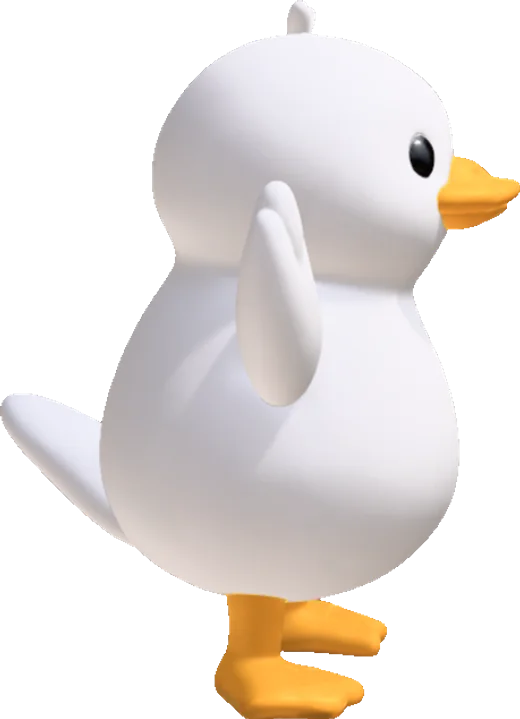
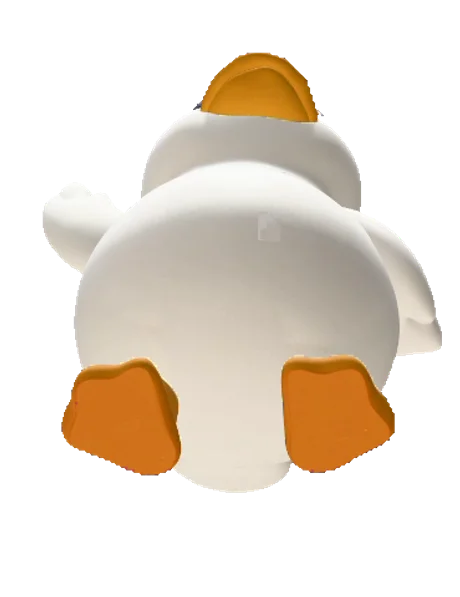
feat: 오리 스크롤 회전을 상하 궤도 25프레임으로 교체
원하는 동작은 좌우 회전이 아니라 스크롤에 따라 하이앵글에서
로우앵글로 넘어가는 것이었다. 프레임도 여섯 장뿐이라 도는 게 아니라
튀었다.

뷰어 화면 녹화(31초)에서 상하로만 움직이는 17~25초 구간을 골라
초당 세 장씩 25컷을 뽑았다. 손으로 잡은 정지 컷과 달리 카메라 거리와
좌우 각도가 그대로라 크기가 튀지 않는다.

잘라내기 상자는 25컷 전체의 합집합 하나를 쓴다. 컷마다 따로 자르면
오리가 프레임마다 튀어서 회전이 아니라 흔들림이 된다.

색보정은 HSV 로 한다. 처음에 채널 배율로 당겼더니 밝은 픽셀이 255 에
부딪혀 잘리면서 부리가 노랗게 떴다. 색상만 +25도 돌리고 채도만 1.41배,
명도는 1.10배만 건드린다. 목표값은 로고 픽셀 하나가 아니라 앞서 로고에
맞춰둔 정지 컷의 분포다. 픽셀 하나에 맞추면 그건 부리에서 가장 밝은
지점이라 거기 맞추려다 부리가 통째로 날아간다.

녹화가 마우스 커서까지 잡아서 몸통에 화살표가 찍혔다. 가로세로 비로
가르려 했더니 안 걸린다. 대각선 화살표는 경계상자가 거의 정사각이다.
크기로 가른다. 눈은 600px 이상이고 커서 조각은 50px 미만이다.
어두운 획만 지우면 둘레 번짐이 남아 경계상자를 3px 넓혀 통째로 메운다.
밝고 무채색인 자리에서만, 그리고 상자 안에 부리·발이 6% 넘게 섞이면
건드리지 않는다. 이 조건이 없을 때 부리에 흰 사각형이 찍혔다.

히어로 오리도 같은 녹화의 눈높이 컷으로 바꿨다. 다른 녹화에서 가져오면
조명이 달라 부리 색이 갈린다.

25장을 eager 로 받되 fetchPriority 는 low 로 둔다. 히어로 이미지와
대역폭을 다투면 첫 화면이 늦게 뜬다.

diff --git a/src/app/intro/page.tsx b/src/app/intro/page.tsx
@@ -25,20 +25,20 @@ import './intro.css'
 const ALL = rawEvents as EventItem[]
 
 /**
- * 회전 프레임. 뒷모습에서 정면을 지나 옆모습까지 한 방향으로 돈다.
+ * 회전 프레임. 위에서 내려다보는 각도로 시작해 눈높이를 지나
+ * 아래에서 올려다보는 각도로 끝난다. 좌우가 아니라 상하 궤도다.
  *
- * 이 여섯 장은 턴테이블로 뽑은 게 아니라 뷰어를 손으로 돌려가며 잡은 컷이라
- * 각도 간격이 고르지 않다. 특히 00 과 01 사이가 크게 벌어진다.
- * 매끄럽게 하려면 같은 높이·같은 거리에서 30도씩 열두 장을 다시 떠야 한다.
+ * 뷰어 화면 녹화에서 상하로만 움직이는 구간(17~25초)을 골라
+ * 초당 세 장씩 뽑았다. 손으로 잡은 정지 컷과 달리 카메라 거리와
+ * 좌우 각도가 그대로라 크기가 튀지 않는다.
+ *
+ * 잘라내기 상자는 25컷 전체의 합집합 하나를 쓴다. 컷마다 따로 자르면
+ * 오리가 프레임마다 튀어서 회전이 아니라 흔들림으로 보인다.
  */
-const TURN = [
-  '/intro/turn/00.webp', // 뒤
-  '/intro/turn/01.webp',
-  '/intro/turn/02.webp',
-  '/intro/turn/03.webp', // 정면
-  '/intro/turn/04.webp',
-  '/intro/turn/05.webp', // 옆
-]
+const TURN = Array.from(
+  { length: 25 },
+  (_, i) => `/intro/turn/${String(i).padStart(2, '0')}.webp`,
+)
 
 /** 건수가 많은 대상부터. 링 둘레에 들어가는 만큼만 쓴다 */
 function topSubjects(n: number): string[] {
@@ -88,8 +88,8 @@ export default function IntroPage() {
               className="in-duck-hero"
               src="/intro/duck-hero.png"
               alt=""
-              width={448}
-              height={539}
+              width={460}
+              height={597}
               priority
             />
           </div>

diff --git a/src/components/intro/ScrollTurntable.tsx b/src/components/intro/ScrollTurntable.tsx
@@ -76,8 +76,11 @@ export default function ScrollTurntable({
           src={src}
           alt={n === 0 ? alt : ''}
           // 스크롤하다 도착했을 때 이미 받아둔 상태여야 한다. 지연 로딩하면
-          // 그 프레임에서 한 칸 비어 보인다
+          // 그 프레임에서 한 칸 비어 보인다.
+          // 다만 우선순위는 낮춘다. 스물다섯 장이 히어로 이미지와 대역폭을
+          // 다투면 첫 화면이 늦게 뜬다
           loading="eager"
+          fetchPriority="low"
           decoding="async"
         />
       ))}
